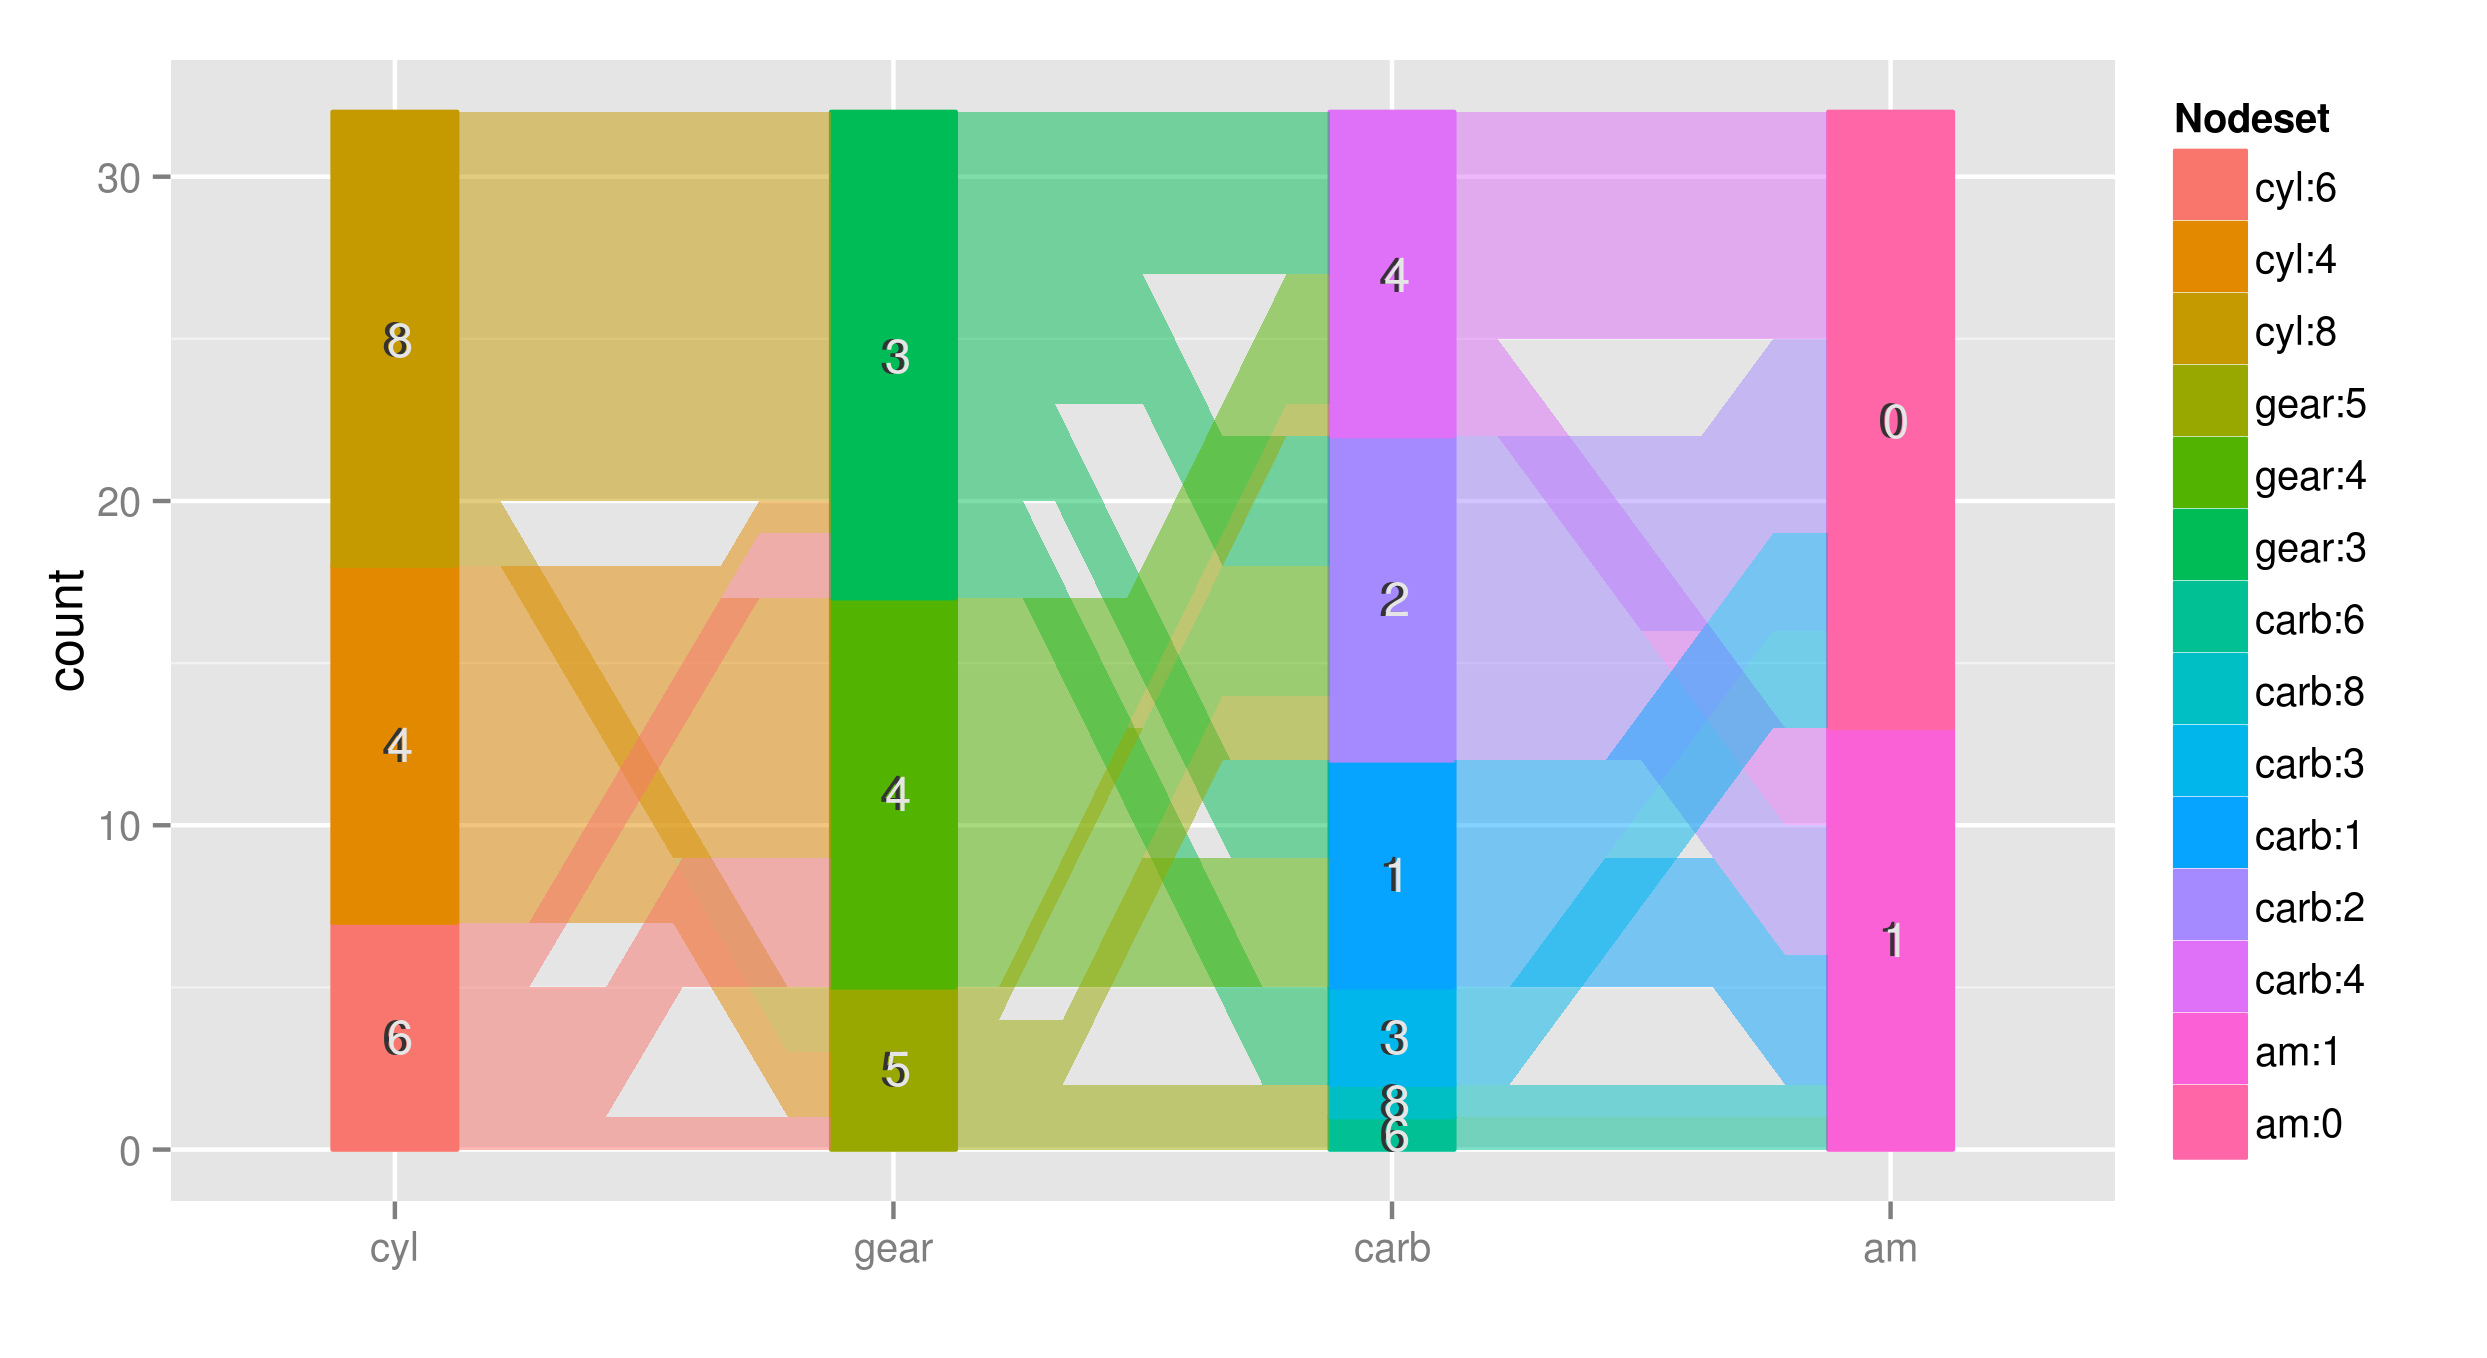
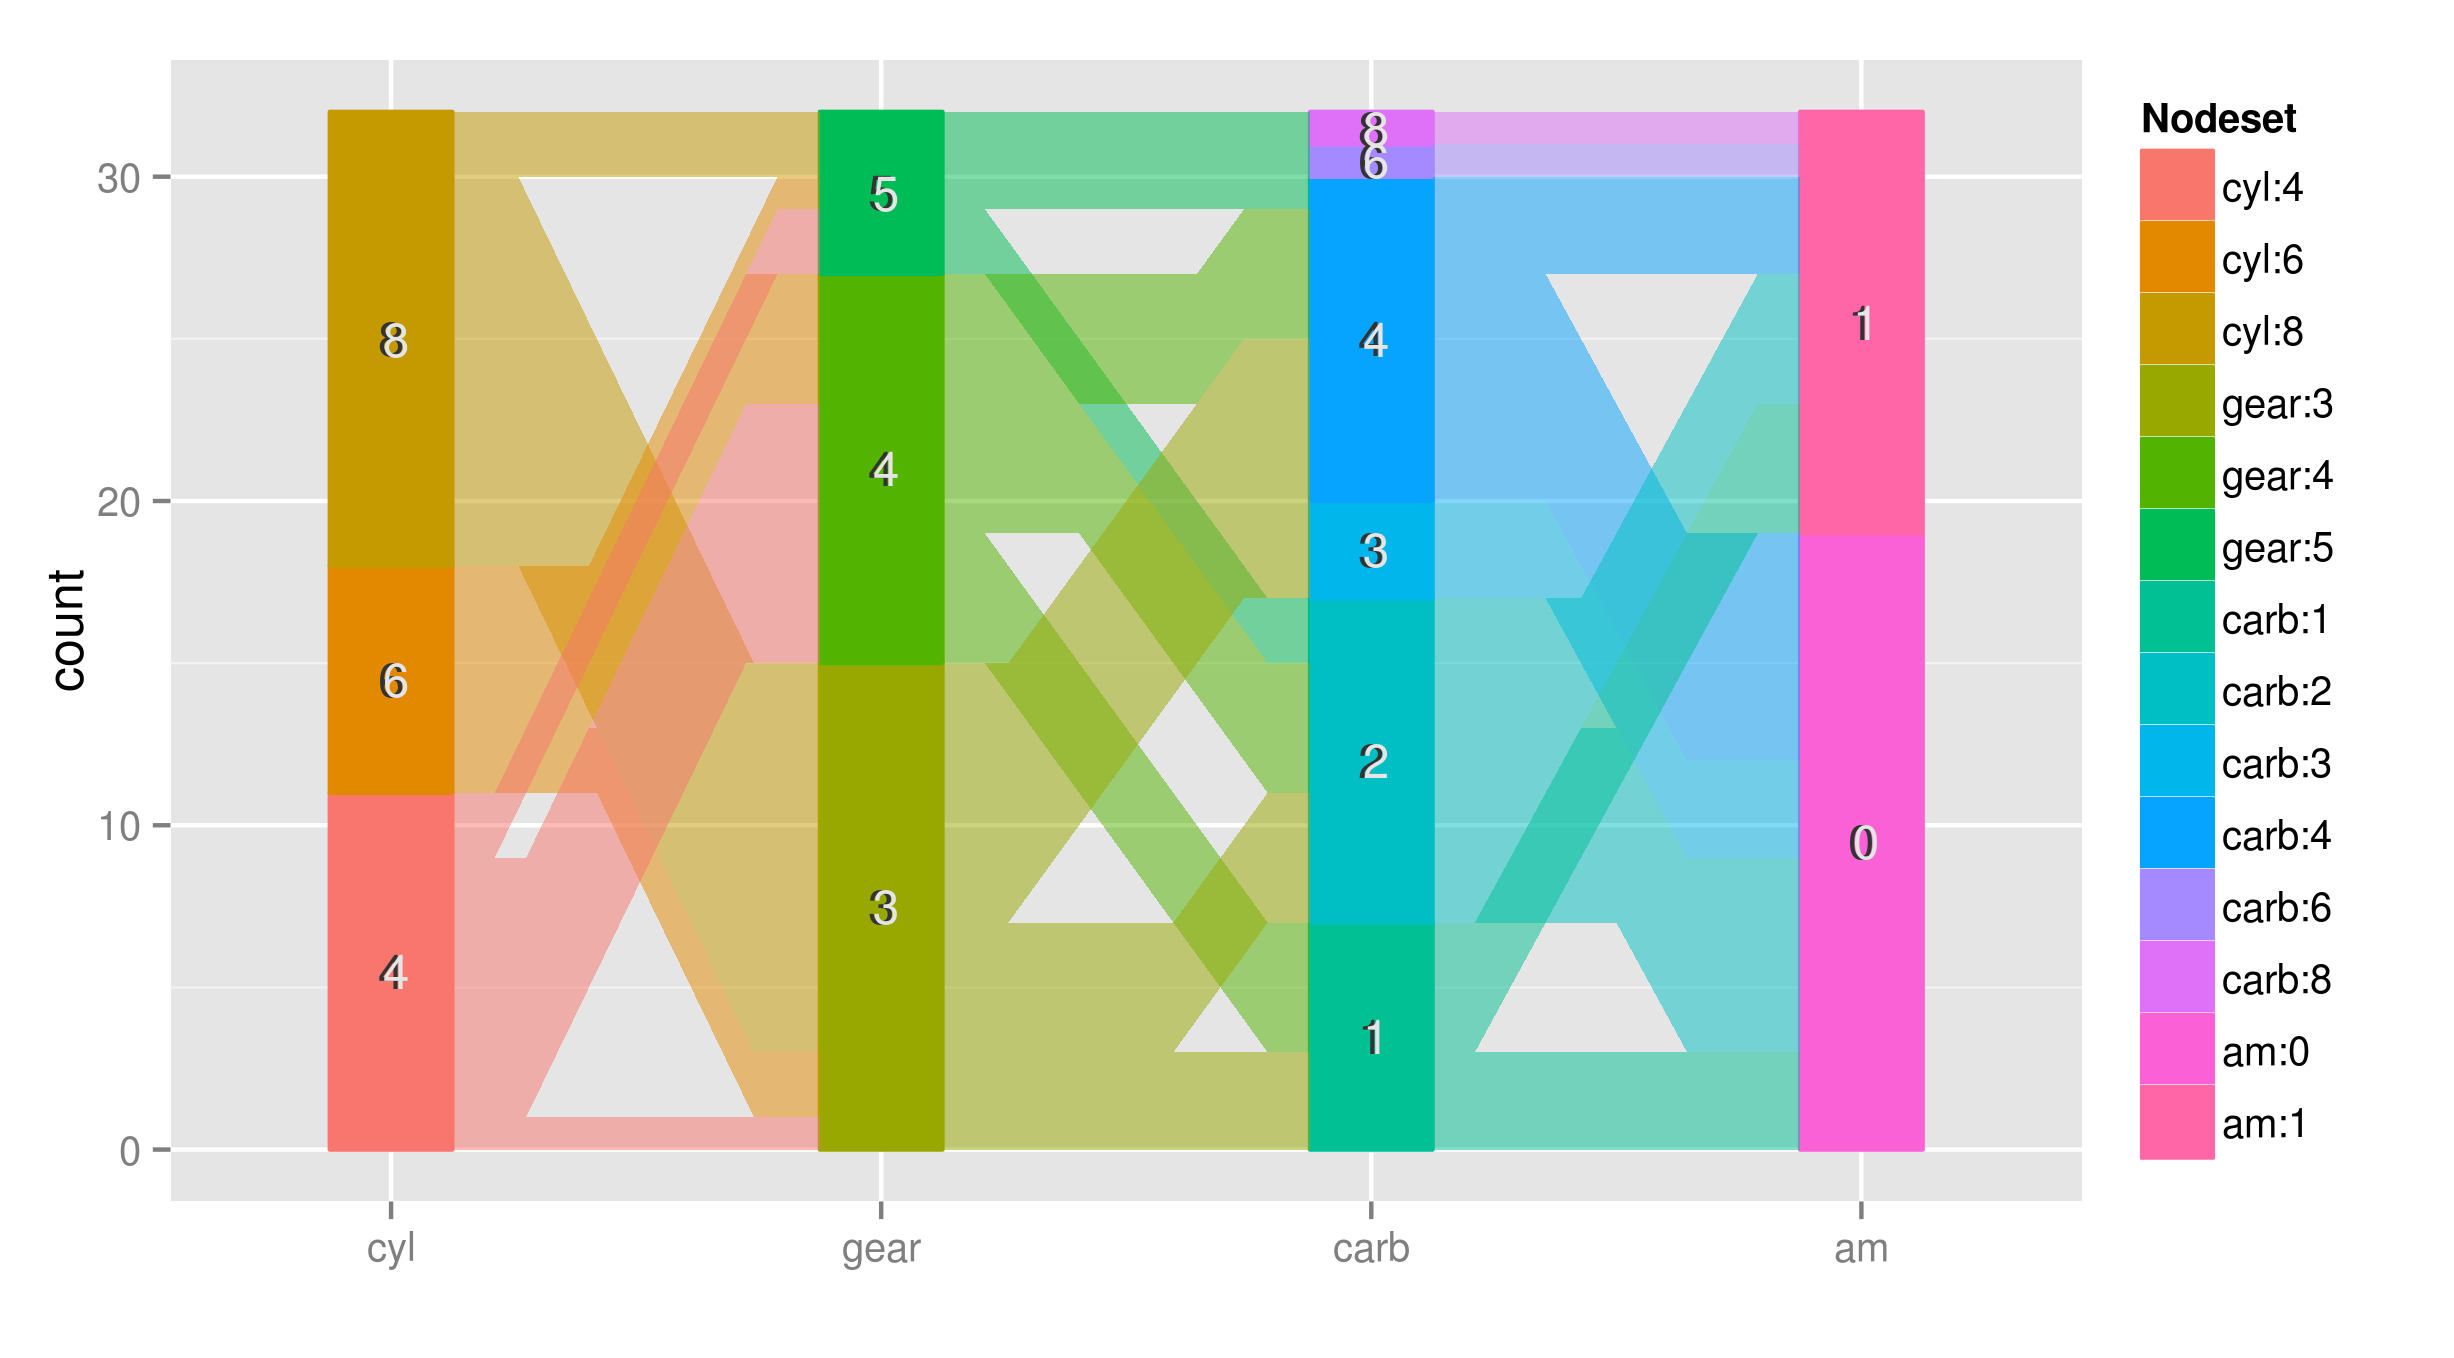
add adj.angle

diff --git a/tutorial.md b/tutorial.md
@@ -59,4 +59,16 @@ number of carbuerators (carb) </figcaption>
 </figure>
 </div><br><br>
 
+
+<h2>Adjusted angles</h2>
+Adjusted angles are similar to PCPs in the ability to display multiple variables as vertical axes, but with application to categorical data.
+The vertical axes are shown as stacked bar charts capturing the proportion of observations for each category. Ribbons connect observation pairs, with the ribbon thickness indicating the relative number of observations for that pair. Ribbons intersect an axis in an ordered manner and with an offset. <b><i>An additional adjustment is made to keep thickness of a single ribbon consistent across the display</i></b>.
+
+<div style="width:75%;margin:auto;">
+<figure>
+<a href = "media/images/mtcars_aa.png"><img src = 'media/images/mtcars_ca.png'  width = 100% /></a>
+<figcaption>Hammock plot of mtcars dataset, variables: number of cylinders (cyl), number of gears (gear), auto or manual transmission (am),
+number of carbuerators (carb) </figcaption>
+</figure>
+</div><br><br>
 </div>
